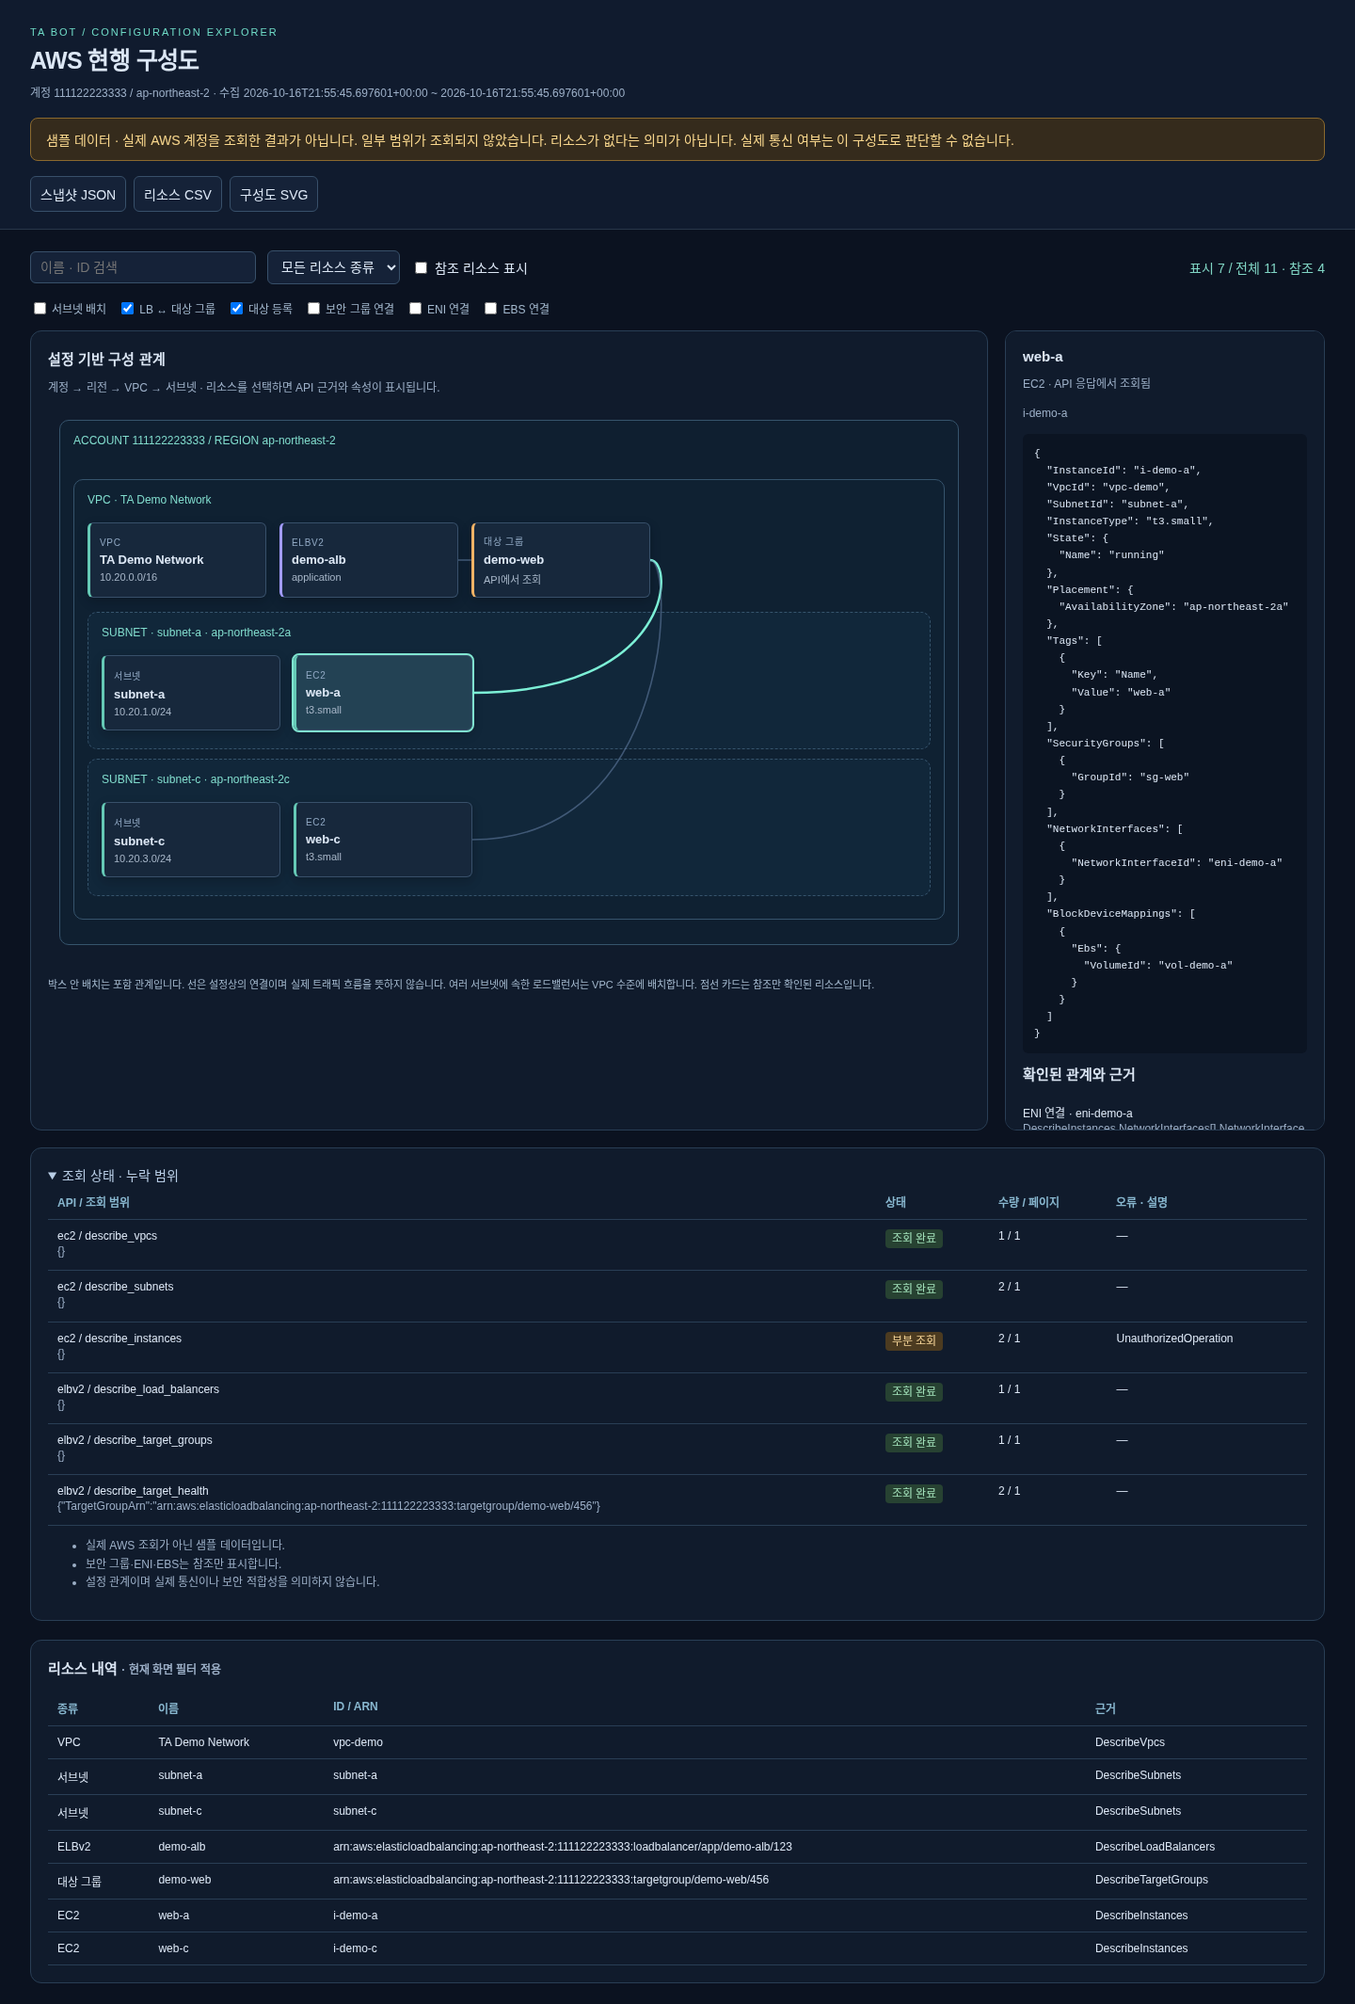
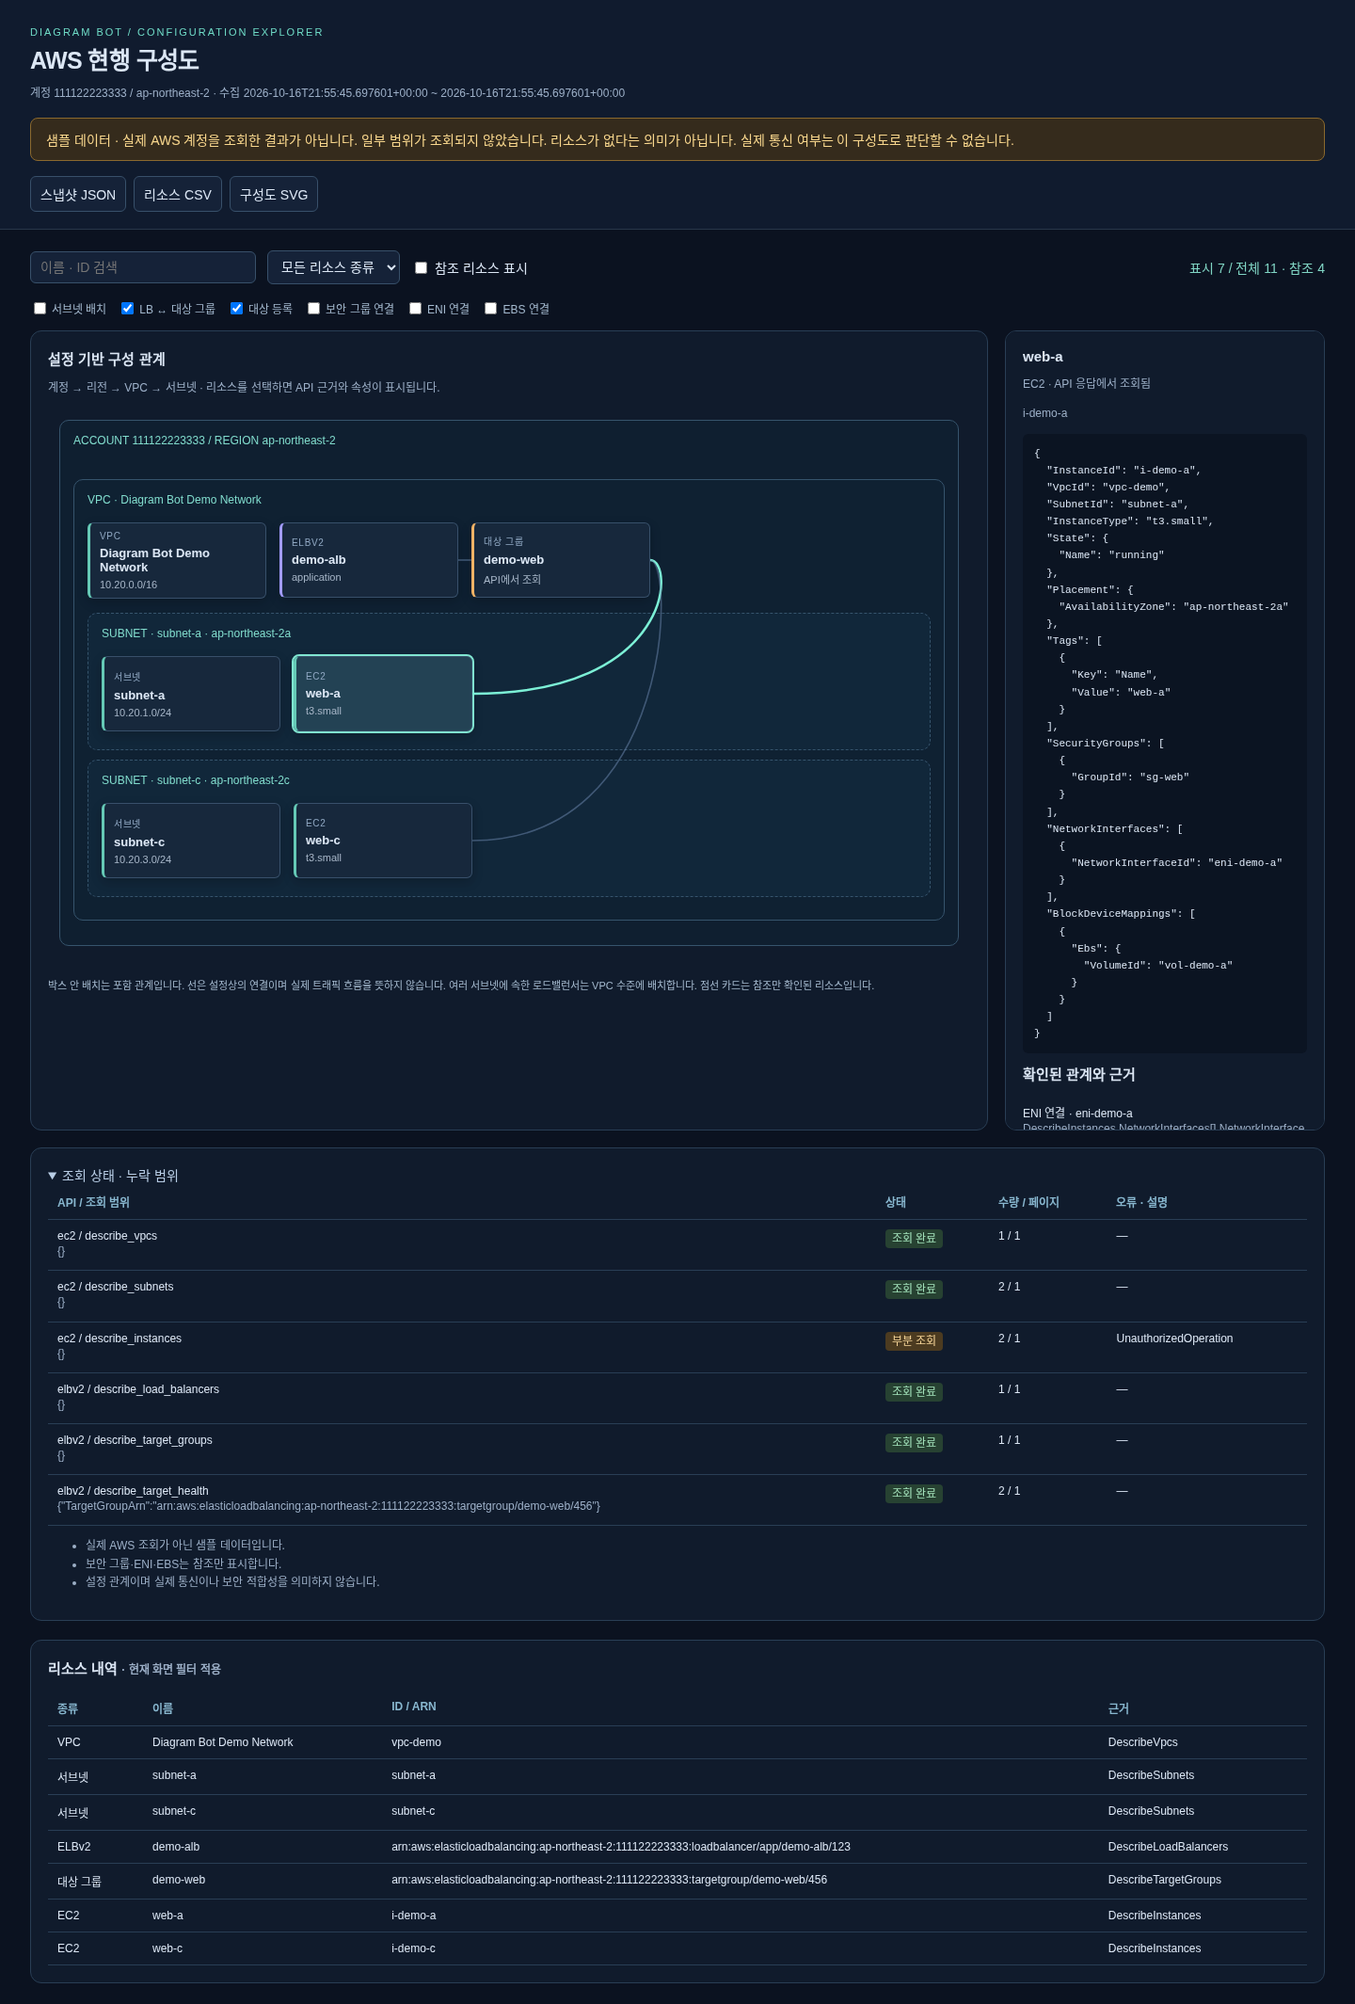
refactor: rename application and CLI to diagram-bot

diff --git a/examples/demo/index.html b/examples/demo/index.html
@@ -2,13 +2,13 @@
 <html lang="ko">
 <head>
 <meta charset="utf-8"><meta name="viewport" content="width=device-width,initial-scale=1">
-<title>TA Bot · AWS 현행 구성도</title>
+<title>Diagram Bot · AWS 현행 구성도</title>
 <style>
 :root{font-family:Inter,Pretendard,-apple-system,BlinkMacSystemFont,"Segoe UI",sans-serif;color:#dce7f5;background:#0b1220;font-size:14px}*{box-sizing:border-box}body{margin:0}header{padding:28px 32px 18px;border-bottom:1px solid #29374a;background:#101b2e}h1{font-size:25px;letter-spacing:-.6px;margin:4px 0 10px}.eyebrow{font-size:11px;letter-spacing:2px;color:#6ed9c5}.muted{color:#9cafc7;font-size:12px;line-height:1.6}#notice{margin-top:16px;padding:12px 16px;border:1px solid #8b692e;background:#352b1c;border-radius:8px;color:#f9d78d}button,input,select{font:inherit;color:inherit;background:#152238;border:1px solid #38506a;border-radius:6px;padding:8px 10px}button{cursor:pointer}button:hover{background:#263c55}button:focus-visible,input:focus-visible,select:focus-visible{outline:2px solid #6ed9c5}nav{display:flex;gap:8px;flex-wrap:wrap;margin:16px 0 0}main{padding:22px 32px}.toolbar{display:flex;gap:12px;flex-wrap:wrap;align-items:center;margin-bottom:16px}.toolbar input[type=search]{min-width:240px}.toolbar label{display:flex;align-items:center;gap:5px}.layout{display:grid;grid-template-columns:minmax(0,1fr) 340px;gap:18px}.panel{border:1px solid #293e55;background:#101b2c;border-radius:12px;padding:18px;min-width:0}.panel h2{font-size:15px;margin:0 0 12px}#canvas{position:relative;min-height:450px;overflow:auto;padding:12px}#groups{position:relative;z-index:1;min-width:560px;pointer-events:none}.group{border:1px solid #36546c;border-radius:10px;padding:14px;margin:12px 0;background:#10263855}.group-title{font-size:12px;color:#81dccd;overflow-wrap:anywhere;margin-bottom:12px}.subnet{border-style:dashed;background:#18334c55;margin:10px 0}.cards{display:flex;flex-wrap:wrap;gap:14px;align-items:start;padding:5px 0}.resource{pointer-events:auto;width:190px;min-height:80px;text-align:left;position:relative;border-left:3px solid #65c9b6;box-shadow:0 4px 12px #0003;background:#17283c;overflow-wrap:anywhere}.resource .kind{display:block;font-size:10px;color:#90a8c3;letter-spacing:.7px;text-transform:uppercase;margin-bottom:5px}.resource strong{display:block;font-size:13px}.resource small{display:block;color:#a7b6c8;margin-top:5px;font-size:11px}.resource.ref{border-style:dashed;border-left-color:#d0ad6b}.resource.selected{outline:2px solid #80e5d1;background:#234254}.resource[data-kind=load_balancer]{border-left-color:#a29bfe}.resource[data-kind=target_group]{border-left-color:#f4b366}#edges{position:absolute;top:0;left:0;z-index:2;pointer-events:none;overflow:visible}.edge{fill:none;stroke:#708bb3;stroke-width:1.6;opacity:.5}.edge.active{stroke:#7cf0d6;stroke-width:2.5;opacity:1}#detail{position:sticky;top:18px;align-self:start;max-height:85vh;overflow:auto}pre{white-space:pre-wrap;overflow-wrap:anywhere;background:#0b1422;padding:12px;border-radius:6px;font-size:11px;line-height:1.65}.relation{padding:10px 0;border-bottom:1px solid #293d51;font-size:12px;overflow-wrap:anywhere}details{margin:18px 0}summary{cursor:pointer;color:#b8cde5}table{width:100%;border-collapse:collapse;font-size:12px}th,td{text-align:left;padding:10px;border-bottom:1px solid #293e55;vertical-align:top;overflow-wrap:anywhere}th{color:#88b7cf}tbody tr{cursor:pointer}tbody tr:hover{background:#1c3047}.table-wrap{overflow:auto}.badge{padding:3px 7px;border-radius:4px;background:#274232;color:#a3e2bb}.badge.warn{background:#4c3b20;color:#f6d598}.empty{padding:30px;color:#9cafc7}#inventory{margin-top:20px}#stats{margin-left:auto;color:#80d5c4}.legend{font-size:11px;color:#a4b9ce;margin-top:10px;line-height:1.6}.relation-controls{display:flex;gap:12px;flex-wrap:wrap;margin-bottom:14px;color:#a4b9ce;font-size:12px}.relation-controls label{display:flex;align-items:center;gap:3px}@media(max-width:1000px){.layout{grid-template-columns:1fr}#detail{position:static;max-height:none}header,main{padding:20px}#stats{margin-left:0}}
 </style>
 </head>
 <body>
-<header><div class="eyebrow">TA BOT / CONFIGURATION EXPLORER</div><h1>AWS 현행 구성도</h1><div id="scope" class="muted"></div><div id="notice" role="status"></div><nav><button id="json-download">스냅샷 JSON</button><button id="csv-download">리소스 CSV</button><button id="svg-download">구성도 SVG</button></nav></header>
+<header><div class="eyebrow">DIAGRAM BOT / CONFIGURATION EXPLORER</div><h1>AWS 현행 구성도</h1><div id="scope" class="muted"></div><div id="notice" role="status"></div><nav><button id="json-download">스냅샷 JSON</button><button id="csv-download">리소스 CSV</button><button id="svg-download">구성도 SVG</button></nav></header>
 <main>
 <div class="toolbar"><input id="search" type="search" aria-label="리소스 검색" placeholder="이름 · ID 검색"><select id="kind" aria-label="리소스 종류"><option value="all">모든 리소스 종류</option></select><label><input id="references" type="checkbox">참조 리소스 표시</label><span id="stats"></span></div>
 <div class="relation-controls" id="relation-controls"></div>
@@ -96,7 +96,7 @@
         "Tags": [
           {
             "Key": "Name",
-            "Value": "TA Demo Network"
+            "Value": "Diagram Bot Demo Network"
           }
         ]
       }
@@ -432,7 +432,7 @@
         "id": "111122223333/ap-northeast-2/vpc/vpc-demo",
         "resource_id": "vpc-demo",
         "kind": "vpc",
-        "name": "TA Demo Network",
+        "name": "Diagram Bot Demo Network",
         "account": "111122223333",
         "region": "ap-northeast-2",
         "attributes": {
@@ -441,7 +441,7 @@
           "Tags": [
             {
               "Key": "Name",
-              "Value": "TA Demo Network"
+              "Value": "Diagram Bot Demo Network"
             }
           ]
         },

diff --git a/src/diagram_bot/viewer.html b/src/diagram_bot/viewer.html
@@ -2,13 +2,13 @@
 <html lang="ko">
 <head>
 <meta charset="utf-8"><meta name="viewport" content="width=device-width,initial-scale=1">
-<title>TA Bot · AWS 현행 구성도</title>
+<title>Diagram Bot · AWS 현행 구성도</title>
 <style>
 :root{font-family:Inter,Pretendard,-apple-system,BlinkMacSystemFont,"Segoe UI",sans-serif;color:#dce7f5;background:#0b1220;font-size:14px}*{box-sizing:border-box}body{margin:0}header{padding:28px 32px 18px;border-bottom:1px solid #29374a;background:#101b2e}h1{font-size:25px;letter-spacing:-.6px;margin:4px 0 10px}.eyebrow{font-size:11px;letter-spacing:2px;color:#6ed9c5}.muted{color:#9cafc7;font-size:12px;line-height:1.6}#notice{margin-top:16px;padding:12px 16px;border:1px solid #8b692e;background:#352b1c;border-radius:8px;color:#f9d78d}button,input,select{font:inherit;color:inherit;background:#152238;border:1px solid #38506a;border-radius:6px;padding:8px 10px}button{cursor:pointer}button:hover{background:#263c55}button:focus-visible,input:focus-visible,select:focus-visible{outline:2px solid #6ed9c5}nav{display:flex;gap:8px;flex-wrap:wrap;margin:16px 0 0}main{padding:22px 32px}.toolbar{display:flex;gap:12px;flex-wrap:wrap;align-items:center;margin-bottom:16px}.toolbar input[type=search]{min-width:240px}.toolbar label{display:flex;align-items:center;gap:5px}.layout{display:grid;grid-template-columns:minmax(0,1fr) 340px;gap:18px}.panel{border:1px solid #293e55;background:#101b2c;border-radius:12px;padding:18px;min-width:0}.panel h2{font-size:15px;margin:0 0 12px}#canvas{position:relative;min-height:450px;overflow:auto;padding:12px}#groups{position:relative;z-index:1;min-width:560px;pointer-events:none}.group{border:1px solid #36546c;border-radius:10px;padding:14px;margin:12px 0;background:#10263855}.group-title{font-size:12px;color:#81dccd;overflow-wrap:anywhere;margin-bottom:12px}.subnet{border-style:dashed;background:#18334c55;margin:10px 0}.cards{display:flex;flex-wrap:wrap;gap:14px;align-items:start;padding:5px 0}.resource{pointer-events:auto;width:190px;min-height:80px;text-align:left;position:relative;border-left:3px solid #65c9b6;box-shadow:0 4px 12px #0003;background:#17283c;overflow-wrap:anywhere}.resource .kind{display:block;font-size:10px;color:#90a8c3;letter-spacing:.7px;text-transform:uppercase;margin-bottom:5px}.resource strong{display:block;font-size:13px}.resource small{display:block;color:#a7b6c8;margin-top:5px;font-size:11px}.resource.ref{border-style:dashed;border-left-color:#d0ad6b}.resource.selected{outline:2px solid #80e5d1;background:#234254}.resource[data-kind=load_balancer]{border-left-color:#a29bfe}.resource[data-kind=target_group]{border-left-color:#f4b366}#edges{position:absolute;top:0;left:0;z-index:2;pointer-events:none;overflow:visible}.edge{fill:none;stroke:#708bb3;stroke-width:1.6;opacity:.5}.edge.active{stroke:#7cf0d6;stroke-width:2.5;opacity:1}#detail{position:sticky;top:18px;align-self:start;max-height:85vh;overflow:auto}pre{white-space:pre-wrap;overflow-wrap:anywhere;background:#0b1422;padding:12px;border-radius:6px;font-size:11px;line-height:1.65}.relation{padding:10px 0;border-bottom:1px solid #293d51;font-size:12px;overflow-wrap:anywhere}details{margin:18px 0}summary{cursor:pointer;color:#b8cde5}table{width:100%;border-collapse:collapse;font-size:12px}th,td{text-align:left;padding:10px;border-bottom:1px solid #293e55;vertical-align:top;overflow-wrap:anywhere}th{color:#88b7cf}tbody tr{cursor:pointer}tbody tr:hover{background:#1c3047}.table-wrap{overflow:auto}.badge{padding:3px 7px;border-radius:4px;background:#274232;color:#a3e2bb}.badge.warn{background:#4c3b20;color:#f6d598}.empty{padding:30px;color:#9cafc7}#inventory{margin-top:20px}#stats{margin-left:auto;color:#80d5c4}.legend{font-size:11px;color:#a4b9ce;margin-top:10px;line-height:1.6}.relation-controls{display:flex;gap:12px;flex-wrap:wrap;margin-bottom:14px;color:#a4b9ce;font-size:12px}.relation-controls label{display:flex;align-items:center;gap:3px}@media(max-width:1000px){.layout{grid-template-columns:1fr}#detail{position:static;max-height:none}header,main{padding:20px}#stats{margin-left:0}}
 </style>
 </head>
 <body>
-<header><div class="eyebrow">TA BOT / CONFIGURATION EXPLORER</div><h1>AWS 현행 구성도</h1><div id="scope" class="muted"></div><div id="notice" role="status"></div><nav><button id="json-download">스냅샷 JSON</button><button id="csv-download">리소스 CSV</button><button id="svg-download">구성도 SVG</button></nav></header>
+<header><div class="eyebrow">DIAGRAM BOT / CONFIGURATION EXPLORER</div><h1>AWS 현행 구성도</h1><div id="scope" class="muted"></div><div id="notice" role="status"></div><nav><button id="json-download">스냅샷 JSON</button><button id="csv-download">리소스 CSV</button><button id="svg-download">구성도 SVG</button></nav></header>
 <main>
 <div class="toolbar"><input id="search" type="search" aria-label="리소스 검색" placeholder="이름 · ID 검색"><select id="kind" aria-label="리소스 종류"><option value="all">모든 리소스 종류</option></select><label><input id="references" type="checkbox">참조 리소스 표시</label><span id="stats"></span></div>
 <div class="relation-controls" id="relation-controls"></div>

diff --git a/src/diagram_bot/demo.py b/src/diagram_bot/demo.py
@@ -20,7 +20,7 @@ def demo_snapshot():
             {"service": "elbv2", "operation": "describe_target_groups", "status": "complete", "items": 1, "pages": 1},
             {"service": "elbv2", "operation": "describe_target_health", "parameters": {"TargetGroupArn": tg}, "status": "complete", "items": 2, "pages": 1}],
         "raw": {
-            "vpcs": [{"VpcId": "vpc-demo", "CidrBlock": "10.20.0.0/16", "Tags": [{"Key": "Name", "Value": "TA Demo Network"}]}],
+            "vpcs": [{"VpcId": "vpc-demo", "CidrBlock": "10.20.0.0/16", "Tags": [{"Key": "Name", "Value": "Diagram Bot Demo Network"}]}],
             "subnets": [{"SubnetId": "subnet-a", "VpcId": "vpc-demo", "AvailabilityZone": "ap-northeast-2a", "CidrBlock": "10.20.1.0/24"},
                         {"SubnetId": "subnet-c", "VpcId": "vpc-demo", "AvailabilityZone": "ap-northeast-2c", "CidrBlock": "10.20.3.0/24"}],
             "instances": [{"InstanceId": "i-demo-a", "VpcId": "vpc-demo", "SubnetId": "subnet-a", "InstanceType": "t3.small", "State": {"Name": "running"}, "Placement": {"AvailabilityZone": "ap-northeast-2a"}, "Tags": [{"Key": "Name", "Value": "web-a"}], "SecurityGroups": [{"GroupId": "sg-web"}], "NetworkInterfaces": [{"NetworkInterfaceId": "eni-demo-a"}], "BlockDeviceMappings": [{"Ebs": {"VolumeId": "vol-demo-a"}}]},

diff --git a/src/diagram_bot/report.py b/src/diagram_bot/report.py
@@ -20,7 +20,7 @@ def write_report(snapshot, directory):
     (output / "snapshot.json").write_text(payload, encoding="utf-8")
     # JSON is embedded in HTML; escape characters capable of closing a script tag.
     embedded = payload.replace("&", "\\u0026").replace("<", "\\u003c").replace(">", "\\u003e")
-    template = files("ta_bot").joinpath("viewer.html").read_text(encoding="utf-8")
+    template = files("diagram_bot").joinpath("viewer.html").read_text(encoding="utf-8")
     (output / "index.html").write_text(template.replace("__SNAPSHOT_JSON__", embedded), encoding="utf-8")
     buffer = io.StringIO(newline="")
     fields = ["account", "region", "kind", "resource_id", "name", "reference_only", "source", "attributes"]

diff --git a/tests/test_graph_report.py b/tests/test_graph_report.py
@@ -2,9 +2,9 @@ import csv
 import json
 import re
 
-from ta_bot.demo import demo_snapshot
-from ta_bot.graph import build_graph
-from ta_bot.report import write_report
+from diagram_bot.demo import demo_snapshot
+from diagram_bot.graph import build_graph
+from diagram_bot.report import write_report
 
 
 def test_explicit_relationships_and_multisubnet_lb():

diff --git a/tests/test_collector.py b/tests/test_collector.py
@@ -4,7 +4,7 @@ import boto3
 import pytest
 from botocore.stub import Stubber
 
-from ta_bot.collector import collect, query
+from diagram_bot.collector import collect, query
 
 
 def client(service):

diff --git a/README.md b/README.md
@@ -2,7 +2,7 @@
 
 기존 AWS IAM Identity Center(SSO) 인증을 boto3에서 재사용하여 한 계정·한 리전의 리소스를 읽고, 명시적인 ID·ARN 관계로 구성도를 생성합니다. LLM이나 외부 구성도 서비스는 사용하지 않습니다.
 
-저장소: [men16922/diagram-bot](https://github.com/men16922/diagram-bot). 개발 및 push 방법은 [GITHUB.md](GITHUB.md)에 있습니다. 현재 Python 패키지와 실행 명령은 `ta-bot`입니다. CI는 AWS 인증 없이 테스트와 패키지 빌드를 수행합니다.
+저장소: [men16922/diagram-bot](https://github.com/men16922/diagram-bot). 개발 및 push 방법은 [GITHUB.md](GITHUB.md)에 있습니다. 현재 Python 패키지와 실행 명령은 `diagram-bot`입니다. CI는 AWS 인증 없이 테스트와 패키지 빌드를 수행합니다.
 
 다음 버전은 draw.io 기반 구성도 편집과 `.drawio`·PNG 다운로드를 목표로 합니다. 화면·구조·AWS 지원 범위와 단계별 완료 기준은 [AWS 구성도 탐색 도구 개발 계획](docs/PLAN.md)에 정리했습니다. 계획에 기재한 신규 기능은 아직 구현하지 않았습니다.
 
@@ -16,11 +16,11 @@ source .venv/bin/activate
 pip install -e '.[test]'
 
 # 인증 없이 기능 확인
-ta-bot demo --output reports/demo
+diagram-bot demo --output reports/demo
 
 # 이미 설정된 SSO 프로파일로 인증 (사용자 로컬 환경에서 실행)
 aws sso login --profile my-sso-profile
-ta-bot collect --profile my-sso-profile --region ap-northeast-2 \
+diagram-bot collect --profile my-sso-profile --region ap-northeast-2 \
   --expected-account 123456789012 --output reports/current
 ```
 
@@ -44,7 +44,7 @@ HTML의 JSON/CSV 다운로드는 **전체 스냅샷**, SVG 다운로드는 **현
 기존 스냅샷을 다시 렌더링하려면:
 
 ```bash
-ta-bot render reports/current/snapshot.json --output reports/rerendered
+diagram-bot render reports/current/snapshot.json --output reports/rerendered
 pytest -q
 ```
 

diff --git a/docs/PLAN.md b/docs/PLAN.md
@@ -127,7 +127,7 @@ ALB처럼 여러 서브넷에 속하는 리소스는 VPC 수준에 하나만 표
 ```mermaid
 flowchart LR
     UI[React 탐색 화면] --> API[로컬 FastAPI]
-    CLI[기존 ta-bot CLI] --> COL[공통 boto3 수집기]
+    CLI[기존 diagram-bot CLI] --> COL[공통 boto3 수집기]
     API --> JOB[수집 작업 실행기]
     JOB --> COL
     AUTH[기존 AWS SSO 및 SDK 인증 체인] --> COL
@@ -157,7 +157,7 @@ flowchart LR
 | 로컬 접근 | 기본 127.0.0.1 바인딩. 허용 origin/host와 앱 세션 검증으로 수집 실행 API 보호 |
 | 작업 실행 | 1개 앱 프로세스와 제한된 수집 worker로 시작. 작업 상태를 DB에 기록하고 재시작 시 중단 상태 복구 |
 | 저장 | SQLite는 source/job/snapshot/view/document 인덱스, JSON은 수집 결과, XML은 기준·편집 문서. 원자적 저장 |
-| 배포 | UI와 draw.io 정적 배포물을 고정 버전·체크섬으로 패키징. 출처·라이선스 고지 포함. `ta-bot serve` 추가, 기존 CLI 유지 |
+| 배포 | UI와 draw.io 정적 배포물을 고정 버전·체크섬으로 패키징. 출처·라이선스 고지 포함. `diagram-bot serve` 추가, 기존 CLI 유지 |
 
 M0에서 draw.io XML 왕복 저장, 그룹 경계, 연결선, AWS 도형, 선택 이벤트, PNG 생성을 검증한다. 공식 호스팅 embed API를 로컬 배포가 동일하게 지원한다고 가정하지 않고 선택한 오픈소스 편집기 버전의 동작을 확인한다. 필요한 연동은 작은 어댑터로 격리한다. 자동 배치는 그룹별 좌표 계산을 기본으로 검증하며 보조 알고리즘은 이 단계에서 결정한다.
 
